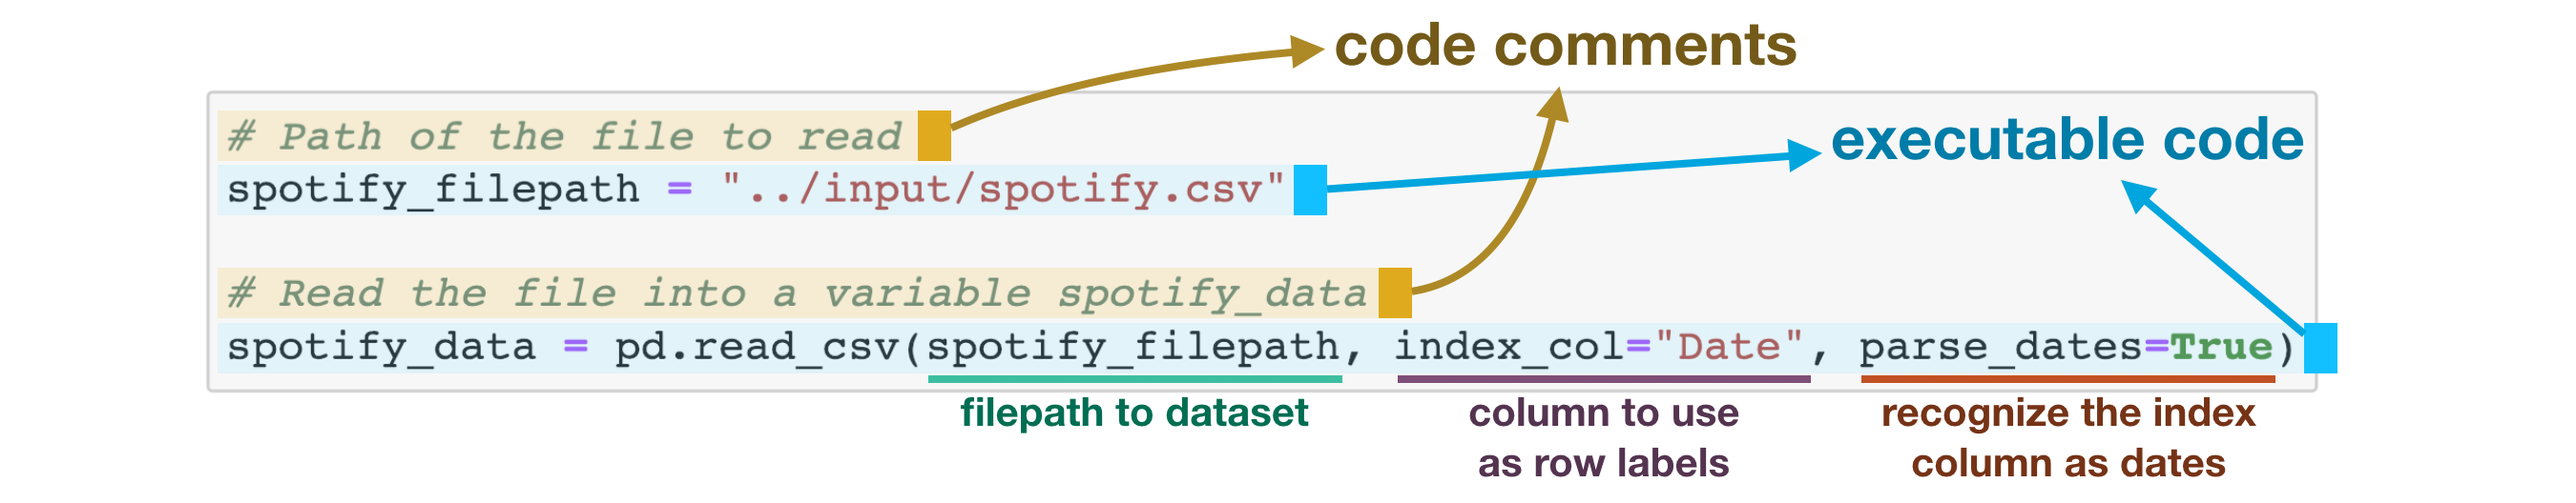
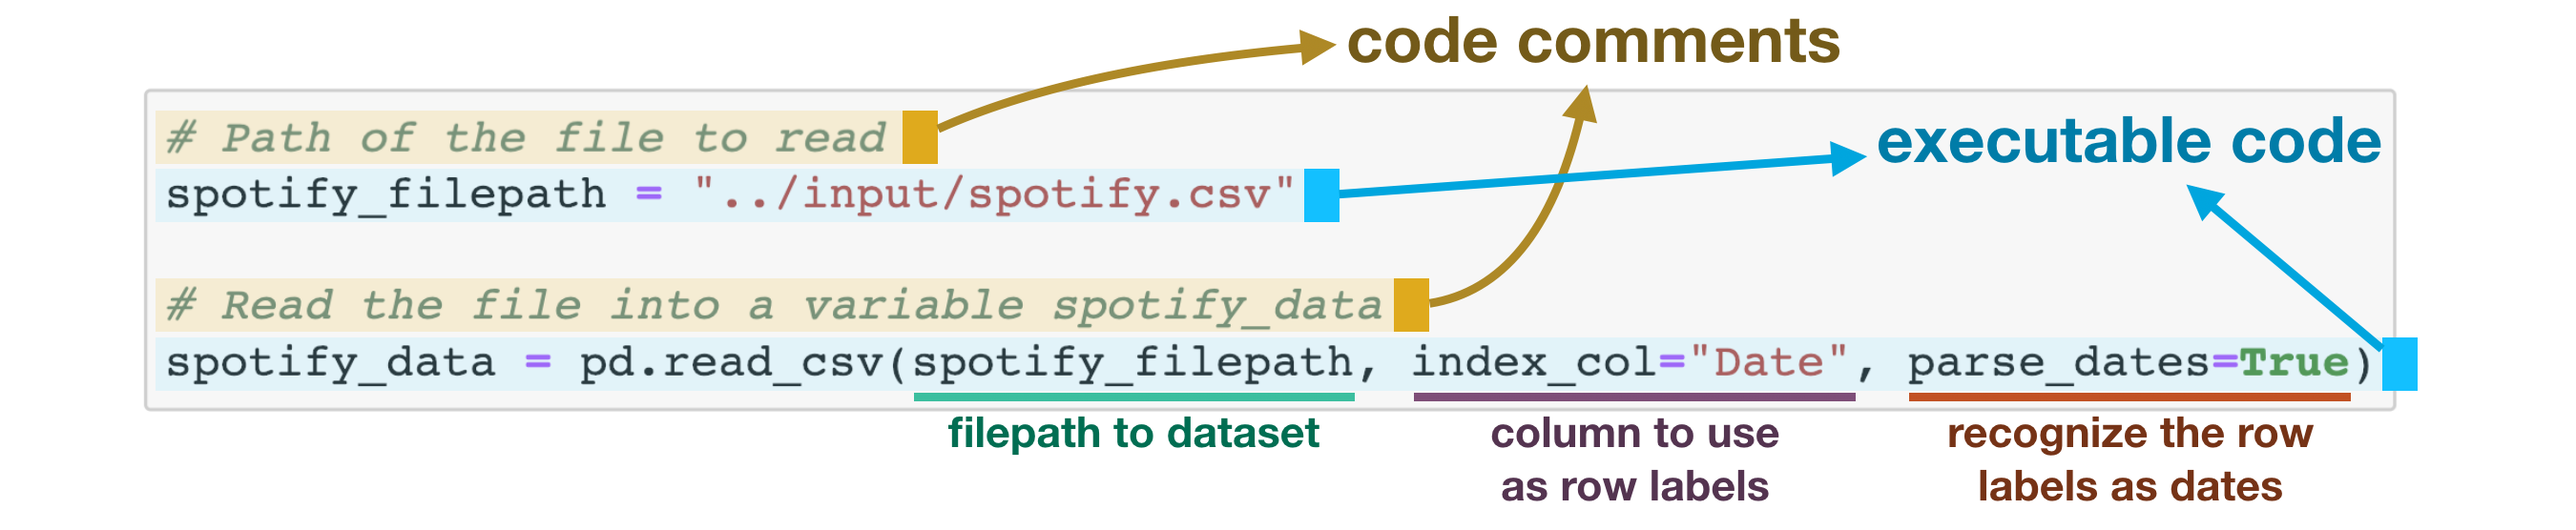
work on ex1, tut1

Changed region(s): [[0.0622, 0.0303, 0.9644, 0.8485], [0.7467, 0.8788, 0.9022, 0.9697], [0.56, 0.8788, 0.6844, 0.9697]]

diff --git a/learntools/data_viz_easy/ex1.py b/learntools/data_viz_easy/ex1.py
@@ -5,13 +5,13 @@ import seaborn as sns
 from learntools.core import *
 
 filepath = '../input/museum_visitors.csv'
-df = pd.read_csv(filepath, index_col="time", parse_dates=True)
+df = pd.read_csv(filepath, index_col="Date", parse_dates=True)
 
 class LoadMuseumData(EqualityCheckProblem):
     _var = 'museum_data'
     _expected = df
     _hint = "Use the `pd.read_csv()` function"
-    _solution = CS('museum_data = pd.read_csv(museum_filepath, index_col="time", parse_dates=True)')
+    _solution = CS('museum_data = pd.read_csv(museum_filepath, index_col="Date", parse_dates=True)')
     
 class ReviewData(EqualityCheckProblem):
     _vars = ['ca_museum_jul18', 'avila_oct18']
@@ -33,65 +33,64 @@ avila_oct18 = 14658
 
 class PlotAll(CodingProblem):
     _var = 'plt'
-    _hint = 'Use `sns.lineplot()`, and plot one line for each column in the `museum_data` DataFrame.'
+    _hint = 'Use `sns.lineplot()`, and plot one line for each museum in `museum_data`.'
     _solution = CS(
-"""# Line plot showing the number of visitors to each museum over time
+"""# Line chart showing the number of visitors to each museum over time
 sns.lineplot(data=museum_data)
 """)
     
     def check(self, passed_plt):
         
         assert len(passed_plt.figure(1).axes) > 0, \
-        "After you've written code to create a line plot, `check()` will tell you whether your code is correct."
+        "After you've written code to create a line chart, `check()` will tell you whether your code is correct."
         
         main_axis = passed_plt.figure(1).axes[0]
         legend_handles = main_axis.get_legend_handles_labels()[0]
         
         assert all(isinstance(x, matplotlib.lines.Line2D) for x in legend_handles), \
-        "Is your figure a line plot?  Please use `sns.lineplot()` to generate the lines in your figure."
+        "Is your figure a line chart?  Please use `sns.lineplot()` to generate the lines in your figure."
 
         assert len(legend_handles) == 4, \
         """Your plot does not seem to have 4 lines (one line for each museum). We detect %d lines.
         Note that we can only detect lines that appear in the legend, so please make sure that your
-        legend has an entry for each line.
+        legend has an entry for each line by using `label=`.
         """ % len(legend_handles)
         
 class PlotAvila(CodingProblem):
     _var = 'plt'
     _solution = CS(
-"""# Line plot showing the number of visitors to Avila Adobe over time
-sns.lineplot(data=museum_data.avila_adobe, 
-             label='avila_adobe')
+"""# Line chart showing the number of visitors to Avila Adobe over time
+sns.lineplot(data=museum_data['Avila Adobe'], 
+             label="Avila Adobe")
 """)
-    _hint = 'Use `sns.lineplot()`.  Plot the `avila_adobe` column in the `museum_data` DataFrame.'
+    _hint = 'Use `sns.lineplot()`.  Plot the `avila_adobe` column in `museum_data`.'
 
     def check(self, passed_plt):
         
         assert len(passed_plt.figure(1).axes) > 0, \
-        "After you've written code to create a line plot, `check()` will tell you whether your code is correct."
+        "After you've written code to create a line chart, `check()` will tell you whether your code is correct."
         
         main_axis = passed_plt.figure(1).axes[0]
         legend_handles = main_axis.get_legend_handles_labels()[0]
         
         assert all(isinstance(x, matplotlib.lines.Line2D) for x in legend_handles), \
-        "Is your figure a line plot?  Please use `sns.lineplot()` to generate the lines in your figure."
+        "Is your figure a line chart?  Please use `sns.lineplot()` to generate the lines in your figure."
         
         assert len(legend_handles) == 1, \
-        """Your plot does not seem to have a single line (for Avila Adobe only). We detect %d lines.
-        Note that we can only detect lines that appear in the legend, so please make sure that your
-        legend is nonempty.""" \
+        """Your figure does not seem to have a single line (for Avila Adobe only). We detect %d lines.
+        Note that we can only detect lines that appear in the legend.  Remember that you can add lines to the legend by using `label=`.""" \
         % len(legend_handles)
         
         passed_y_vals = legend_handles[0].get_data()[1]
-        soln_y_vals = df.loc[:, 'avila_adobe'].tolist()
+        soln_y_vals = df.loc[:, "Avila Adobe"].tolist()
         
         assert len(passed_y_vals) == len(soln_y_vals), \
         """Did you plot the number of visitors for each provided month in the dataset?  \
-        We expected to see data for %d months, but it looks like you only plotted %d months.""" \
+        We expected to see data for %d months, but it looks like you only used %d months.""" \
         % (len(soln_y_vals), len(passed_y_vals))
         
         assert all(passed_y_vals == soln_y_vals), \
-        """Did you plot the correct column in the dataset?  You should plot the number of visitors to \
+        """Did you use the correct column in the dataset?  You should plot the number of visitors to \
         Avila Adobe, but it looks like you might have selected a different museum."""
 
 qvars = bind_exercises(globals(), [
